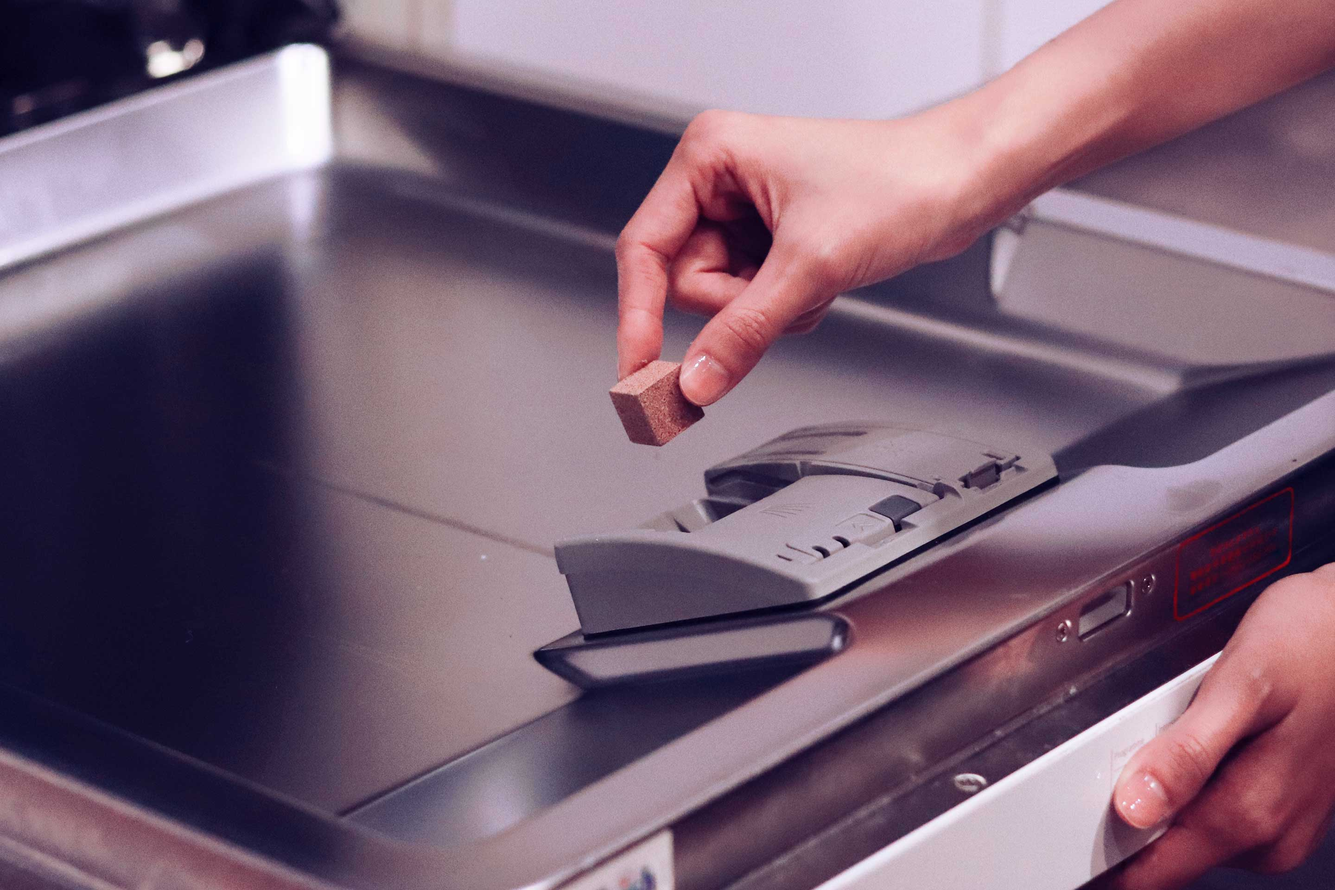
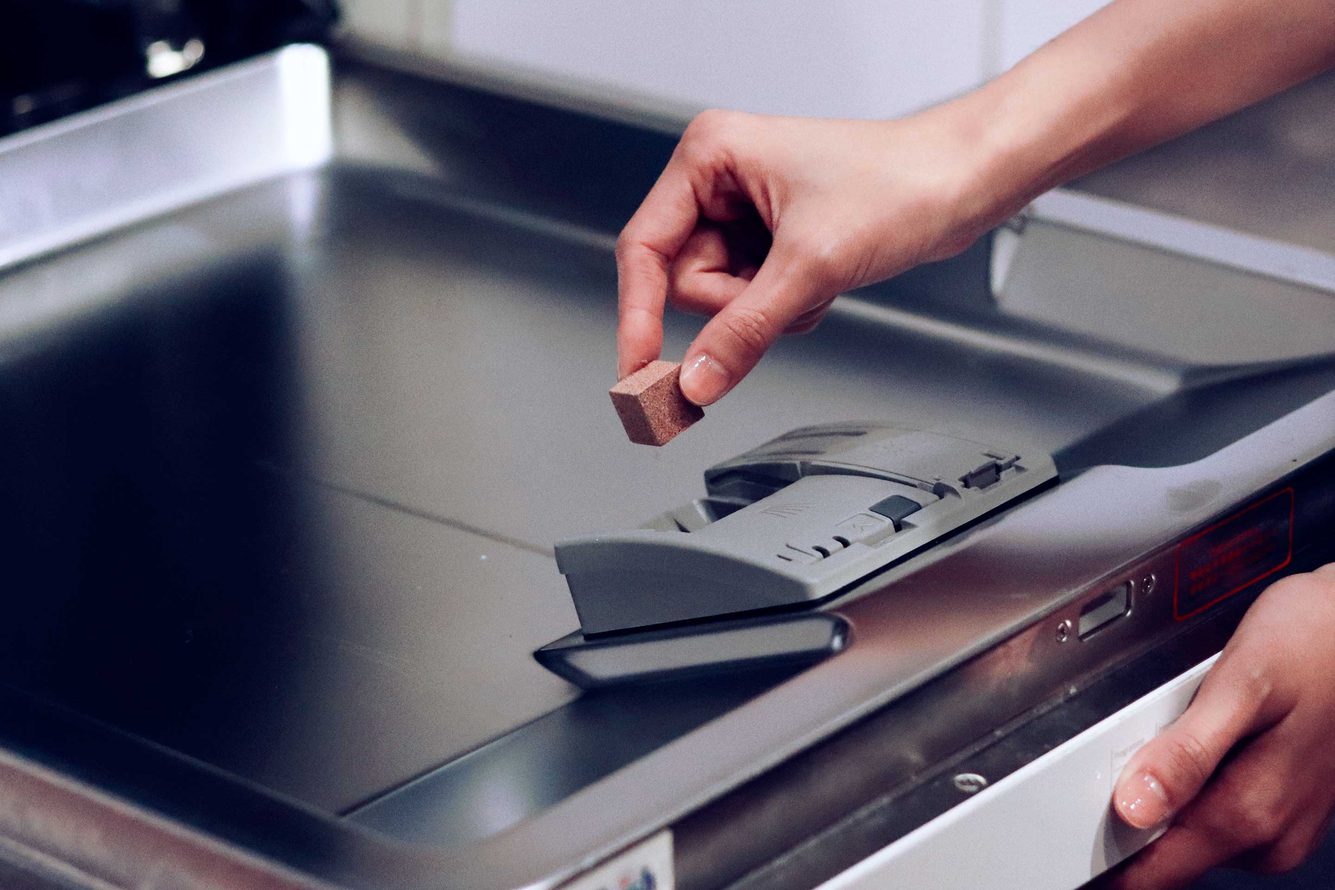
t

diff --git a/css/index.css b/css/index.css
@@ -1,1 +1,1 @@
-.version.index{color:#0000FD;background-color:#2F9C42;}#page{z-index:1;width:1024px;min-height:699.9000000000087px;background-image:none;border-width:0px;border-color:#000000;background-color:transparent;padding-bottom:0px;margin-left:auto;margin-right:auto;}#page_position_content{margin-top:-300px;width:0.01px;}#pu56513{z-index:3;width:0.01px;}#u56513{z-index:3;height:1324px;background-color:#000000;}.js body{visibility:hidden;}.js body.initialized{visibility:visible;}#u56513-bw{z-index:3;height:1324px;}#u56460{z-index:4;min-height:1024px;opacity:1;-ms-filter:"progid:DXImageTransform.Microsoft.Alpha(Opacity=100)";filter:alpha(opacity=100);background:transparent url("../images/camellia-2880x2880.jpg?crc=38068682") no-repeat center center;background-size:cover;}#u56460_align_to_page{margin-left:auto;margin-right:auto;position:relative;width:1024px;padding-top:100px;padding-bottom:228px;}#pu56293{z-index:5;width:0.01px;left:175px;position:relative;}#u56293{z-index:5;width:675px;background-color:transparent;position:relative;margin-right:-10000px;margin-top:355px;}#u56446{z-index:34;width:675px;background-color:transparent;position:relative;margin-right:-10000px;}#u56479{z-index:36;width:360px;background-color:transparent;position:relative;margin-right:-10000px;left:158px;}#u56424{z-index:31;width:96px;background-color:transparent;left:464px;margin-top:20px;position:relative;}#u56460-bw{z-index:4;min-height:1024px;margin-top:300px;}#u56292{z-index:8;min-height:1436px;opacity:1;-ms-filter:"progid:DXImageTransform.Microsoft.Alpha(Opacity=100)";filter:alpha(opacity=100);padding-bottom:100px;background:#FFFFFF url("../images/cubes-2880x3840.jpg?crc=4148562891") no-repeat center center;background-size:cover;}#intro{position:relative;margin-right:-10000px;width:22px;}#pu56302{z-index:9;width:0.01px;margin-right:-10000px;margin-top:100px;margin-left:175px;}#u56302{z-index:9;width:675px;background-color:transparent;position:relative;}#u56297{z-index:11;width:675px;background-color:transparent;margin-top:474px;position:relative;}#u56292-bw{z-index:8;min-height:1436px;}#u56307{z-index:7;height:768px;opacity:1;-ms-filter:"progid:DXImageTransform.Microsoft.Alpha(Opacity=100)";filter:alpha(opacity=100);background:transparent url("../images/dishwasher-2880x1920.jpg?crc=4213056207") no-repeat center center;background-size:cover;}#u56307-bw{z-index:7;height:768px;}#pu56654{z-index:2;width:0.01px;}#u56654{z-index:2;height:1216px;background-color:#FFFFFF;}#u56654-bw{z-index:2;margin-top:2958px;height:1216px;}#u56316{z-index:13;min-height:2969px;background-color:#FFFFFF;}#u56316_align_to_page{margin-left:auto;margin-right:auto;position:relative;width:1024px;padding-top:100px;padding-bottom:110px;}#pu56317{z-index:16;width:0.01px;left:105px;position:relative;}#u56317{z-index:16;width:360px;background-color:transparent;position:relative;margin-right:-10000px;margin-top:231px;left:435px;}#u56308{z-index:18;width:360px;background-color:transparent;position:relative;margin-right:-10000px;margin-top:939px;}#u56319{z-index:20;width:450px;background-color:transparent;position:relative;margin-right:-10000px;left:50px;}#u56295{z-index:22;width:450px;background-color:transparent;position:relative;margin-right:-10000px;margin-top:799px;left:315px;}#u56312{z-index:24;width:450px;background-color:transparent;position:relative;margin-right:-10000px;margin-top:1521px;left:50px;}#u56305{z-index:26;width:360px;background-color:transparent;position:relative;margin-right:-10000px;margin-top:1311px;left:455px;}#u56314{z-index:28;width:360px;background-color:transparent;position:relative;margin-right:-10000px;margin-top:507px;}#u56411{z-index:30;width:1024px;height:576px;border-width:0px;border-color:transparent;background-color:transparent;margin-top:100px;position:relative;}#u56316-bw{z-index:13;min-height:2969px;}#u56648{z-index:15;width:800px;background:-webkit-gradient(linear, center top, center bottom, from(#22B573),color-stop(100%, #006837));background:-webkit-linear-gradient(top,#22B573 ,#006837 100%);background:linear-gradient(to bottom,#22B573 ,#006837 100%);filter:progid:DXImageTransform.Microsoft.gradient(startColorstr=#FF22B573, endColorstr=#FF006837, GradientType=0);-ms-filter:"progid:DXImageTransform.Microsoft.gradient(startColorstr='#FF22B573', endColorstr='#FF006837', GradientType=0)";padding-bottom:10.212500000000546px;position:relative;margin-right:-10000px;margin-top:2958px;left:112px;}#u56552{z-index:40;width:675px;background-color:transparent;margin-left:62px;position:relative;}#u56529{z-index:38;width:800px;background-color:transparent;margin-top:70px;position:relative;}#u56651{z-index:42;width:177px;height:807px;background-color:#FFFFFF;position:relative;margin-right:-10000px;margin-top:2859px;}#u56657{z-index:43;width:178px;height:810px;background-color:#FFFFFF;position:relative;margin-right:-10000px;margin-top:2859px;left:846px;}#u56660{z-index:44;height:78px;background-color:#FFFFFF;}#u56660-bw{z-index:44;margin-top:3591px;height:78px;}#u56664{z-index:45;height:109px;background-color:#FFFFFF;}#u56664-bw{z-index:45;margin-top:2859px;height:109px;}#u56667{z-index:46;height:103px;background-color:#FFFFFF;}#u56667-bw{z-index:46;margin-top:4071px;height:103px;}#u56304{z-index:14;min-height:1235px;background:-webkit-gradient(linear, left center, right center, color-stop(40%, #000000),to(#1E1E1E));background:-webkit-linear-gradient(left,#000000 40%,#1E1E1E );background:linear-gradient(to right,#000000 40%,#1E1E1E );filter:progid:DXImageTransform.Microsoft.gradient(startColorstr=#FF000000, endColorstr=#FF1E1E1E, GradientType=1);-ms-filter:"progid:DXImageTransform.Microsoft.gradient(startColorstr='#FF000000', endColorstr='#FF1E1E1E', GradientType=1)";padding-bottom:96px;background-size:100% auto;}#u56292_align_to_page,#u56304_align_to_page{margin-left:auto;margin-right:auto;position:relative;width:1024px;}#u56688{z-index:47;width:450px;background-color:transparent;position:relative;margin-right:-10000px;margin-top:99px;left:155px;}#u56701{z-index:49;width:400px;background-color:transparent;position:relative;margin-right:-10000px;margin-top:835px;left:504px;}#u56304-bw{z-index:14;min-height:1235px;margin-top:1px;}.css_verticalspacer .verticalspacer{height:calc(100vh - 8833px);}#muse_css_mq,.html{background-color:#FFFFFF;}body{position:relative;min-width:1024px;}
+.version.index{color:#0000EE;background-color:#0944C0;}#page{z-index:1;width:1024px;min-height:699.9000000000087px;background-image:none;border-width:0px;border-color:#000000;background-color:transparent;padding-bottom:0px;margin-left:auto;margin-right:auto;}#page_position_content{margin-top:-300px;width:0.01px;}#pu56513{z-index:3;width:0.01px;}#u56513{z-index:3;height:1324px;background-color:#000000;}.js body{visibility:hidden;}.js body.initialized{visibility:visible;}#u56513-bw{z-index:3;height:1324px;}#u56460{z-index:4;min-height:1024px;opacity:1;-ms-filter:"progid:DXImageTransform.Microsoft.Alpha(Opacity=100)";filter:alpha(opacity=100);background:transparent url("../images/camellia-2880x2880.jpg?crc=38068682") no-repeat center center;background-size:cover;}#u56460_align_to_page{margin-left:auto;margin-right:auto;position:relative;width:1024px;padding-top:100px;padding-bottom:228px;}#pu56293{z-index:5;width:0.01px;left:175px;position:relative;}#u56293{z-index:5;width:675px;background-color:transparent;position:relative;margin-right:-10000px;margin-top:355px;}#u56446{z-index:34;width:675px;background-color:transparent;position:relative;margin-right:-10000px;}#u56479{z-index:36;width:360px;background-color:transparent;position:relative;margin-right:-10000px;left:158px;}#u56424{z-index:31;width:96px;background-color:transparent;left:464px;margin-top:20px;position:relative;}#u56460-bw{z-index:4;min-height:1024px;margin-top:300px;}#u56292{z-index:8;min-height:1436px;opacity:1;-ms-filter:"progid:DXImageTransform.Microsoft.Alpha(Opacity=100)";filter:alpha(opacity=100);padding-bottom:100px;background:#FFFFFF url("../images/cubes-2880x3840.jpg?crc=4148562891") no-repeat center center;background-size:cover;}#intro{position:relative;margin-right:-10000px;width:22px;}#pu56302{z-index:9;width:0.01px;margin-right:-10000px;margin-top:100px;margin-left:175px;}#u56302{z-index:9;width:675px;background-color:transparent;position:relative;}#u56297{z-index:11;width:675px;background-color:transparent;margin-top:474px;position:relative;}#u56292-bw{z-index:8;min-height:1436px;}#u56307{z-index:7;height:768px;opacity:1;-ms-filter:"progid:DXImageTransform.Microsoft.Alpha(Opacity=100)";filter:alpha(opacity=100);background:transparent url("../images/dishwasher-2880x1920.jpg?crc=346812095") no-repeat center center;background-size:cover;}#u56307-bw{z-index:7;height:768px;}#pu56654{z-index:2;width:0.01px;}#u56654{z-index:2;height:1216px;background-color:#FFFFFF;}#u56654-bw{z-index:2;margin-top:2958px;height:1216px;}#u56316{z-index:13;min-height:2969px;background-color:#FFFFFF;}#u56316_align_to_page{margin-left:auto;margin-right:auto;position:relative;width:1024px;padding-top:100px;padding-bottom:110px;}#pu56317{z-index:16;width:0.01px;left:105px;position:relative;}#u56317{z-index:16;width:360px;background-color:transparent;position:relative;margin-right:-10000px;margin-top:231px;left:435px;}#u56308{z-index:18;width:360px;background-color:transparent;position:relative;margin-right:-10000px;margin-top:939px;}#u56319{z-index:20;width:450px;background-color:transparent;position:relative;margin-right:-10000px;left:50px;}#u56295{z-index:22;width:450px;background-color:transparent;position:relative;margin-right:-10000px;margin-top:799px;left:315px;}#u56312{z-index:24;width:450px;background-color:transparent;position:relative;margin-right:-10000px;margin-top:1521px;left:50px;}#u56305{z-index:26;width:360px;background-color:transparent;position:relative;margin-right:-10000px;margin-top:1311px;left:455px;}#u56314{z-index:28;width:360px;background-color:transparent;position:relative;margin-right:-10000px;margin-top:507px;}#u56411{z-index:30;width:1024px;height:576px;border-width:0px;border-color:transparent;background-color:transparent;margin-top:100px;position:relative;}#u56316-bw{z-index:13;min-height:2969px;}#u56648{z-index:15;width:800px;background:-webkit-gradient(linear, center top, center bottom, from(#22B573),color-stop(100%, #006837));background:-webkit-linear-gradient(top,#22B573 ,#006837 100%);background:linear-gradient(to bottom,#22B573 ,#006837 100%);filter:progid:DXImageTransform.Microsoft.gradient(startColorstr=#FF22B573, endColorstr=#FF006837, GradientType=0);-ms-filter:"progid:DXImageTransform.Microsoft.gradient(startColorstr='#FF22B573', endColorstr='#FF006837', GradientType=0)";padding-bottom:10.212500000000546px;position:relative;margin-right:-10000px;margin-top:2958px;left:112px;}#u56552{z-index:40;width:675px;background-color:transparent;margin-left:62px;position:relative;}#u56529{z-index:38;width:800px;background-color:transparent;margin-top:70px;position:relative;}#u56651{z-index:42;width:177px;height:807px;background-color:#FFFFFF;position:relative;margin-right:-10000px;margin-top:2859px;}#u56657{z-index:43;width:178px;height:810px;background-color:#FFFFFF;position:relative;margin-right:-10000px;margin-top:2859px;left:846px;}#u56660{z-index:44;height:78px;background-color:#FFFFFF;}#u56660-bw{z-index:44;margin-top:3591px;height:78px;}#u56664{z-index:45;height:109px;background-color:#FFFFFF;}#u56664-bw{z-index:45;margin-top:2859px;height:109px;}#u56667{z-index:46;height:103px;background-color:#FFFFFF;}#u56667-bw{z-index:46;margin-top:4071px;height:103px;}#u56304{z-index:14;min-height:1235px;background:-webkit-gradient(linear, left center, right center, color-stop(40%, #000000),to(#1E1E1E));background:-webkit-linear-gradient(left,#000000 40%,#1E1E1E );background:linear-gradient(to right,#000000 40%,#1E1E1E );filter:progid:DXImageTransform.Microsoft.gradient(startColorstr=#FF000000, endColorstr=#FF1E1E1E, GradientType=1);-ms-filter:"progid:DXImageTransform.Microsoft.gradient(startColorstr='#FF000000', endColorstr='#FF1E1E1E', GradientType=1)";padding-bottom:96px;background-size:100% auto;}#u56292_align_to_page,#u56304_align_to_page{margin-left:auto;margin-right:auto;position:relative;width:1024px;}#u56688{z-index:47;width:450px;background-color:transparent;position:relative;margin-right:-10000px;margin-top:99px;left:155px;}#u56701{z-index:49;width:400px;background-color:transparent;position:relative;margin-right:-10000px;margin-top:835px;left:504px;}#u56304-bw{z-index:14;min-height:1235px;margin-top:1px;}.css_verticalspacer .verticalspacer{height:calc(100vh - 8833px);}#muse_css_mq,.html{background-color:#FFFFFF;}body{position:relative;min-width:1024px;}

diff --git a/index.html b/index.html
@@ -17,7 +17,7 @@ if(typeof Muse == "undefined") window.Muse = {}; window.Muse.assets = {"required
   <title>Teatergent</title>
   <!-- CSS -->
   <link rel="stylesheet" type="text/css" href="css/site_global.css?crc=3779915718"/>
-  <link rel="stylesheet" type="text/css" href="css/index.css?crc=4247755842" id="pagesheet"/>
+  <link rel="stylesheet" type="text/css" href="css/index.css?crc=3993584832" id="pagesheet"/>
     <!--HTML Widget code-->
   
 <style type="text/css">#u56411.size_fluid_width_height iframe { position:absolute; left:0; top:0; }</style>
@@ -100,7 +100,7 @@ if(typeof Muse == "undefined") window.Muse = {}; window.Muse.assets = {"required
         </div>
         <div class="size_fixed colelem" id="u56411"><!-- custom html -->
          
-    <iframe class="actAsDiv" style="width:100%;height:100%;" src="//player.vimeo.com/video/324883545?title=0&amp;byline=0&amp;portrait=0&amp;color=FFFFFF&amp;autoplay=0&amp;loop=0&amp;wmode=transparent" frameborder="0" webkitAllowFullScreen mozallowfullscreen allowFullScreen></iframe>
+    <iframe class="actAsDiv" style="width:100%;height:100%;" src="//player.vimeo.com/video/340098659?title=0&amp;byline=0&amp;portrait=0&amp;color=FFFFFF&amp;autoplay=0&amp;loop=0&amp;wmode=transparent" frameborder="0" webkitAllowFullScreen mozallowfullscreen allowFullScreen></iframe>
 
         </div>
        </div>
@@ -161,8 +161,8 @@ Muse.Utils.resizeHeight('.browser_width');/* resize height */
 Muse.Utils.requestAnimationFrame(function() { $('body').addClass('initialized'); });/* mark body as initialized */
 Muse.Utils.makeButtonsVisibleAfterSettingMinWidth();/* body */
 Muse.Utils.fullPage('#page');/* 100% height page */
-$('#u56460').registerBackgroundPositionScrollEffect([{"in":[-Infinity,-100.05],"speed":[0,0.75]},{"in":[-100.05,Infinity],"speed":[0,0.75]}]);/* scroll effect */
-$('#u56307').registerBackgroundPositionScrollEffect([{"in":[-Infinity,2459.85],"speed":[0,0.75]},{"in":[2459.85,Infinity],"speed":[0,0.75]}]);/* scroll effect */
+$('#u56460').registerBackgroundPositionScrollEffect([{"speed":[0,0.75],"in":[-Infinity,-100.05]},{"speed":[0,0.75],"in":[-100.05,Infinity]}]);/* scroll effect */
+$('#u56307').registerBackgroundPositionScrollEffect([{"speed":[0,0.75],"in":[-Infinity,2459.85]},{"speed":[0,0.75],"in":[2459.85,Infinity]}]);/* scroll effect */
 Muse.Utils.showWidgetsWhenReady();/* body */
 Muse.Utils.transformMarkupToFixBrowserProblems();/* body */
 }catch(b){if(b&&"function"==typeof b.notify?b.notify():Muse.Assert.fail("Error calling selector function: "+b),false)throw b;}})})};
